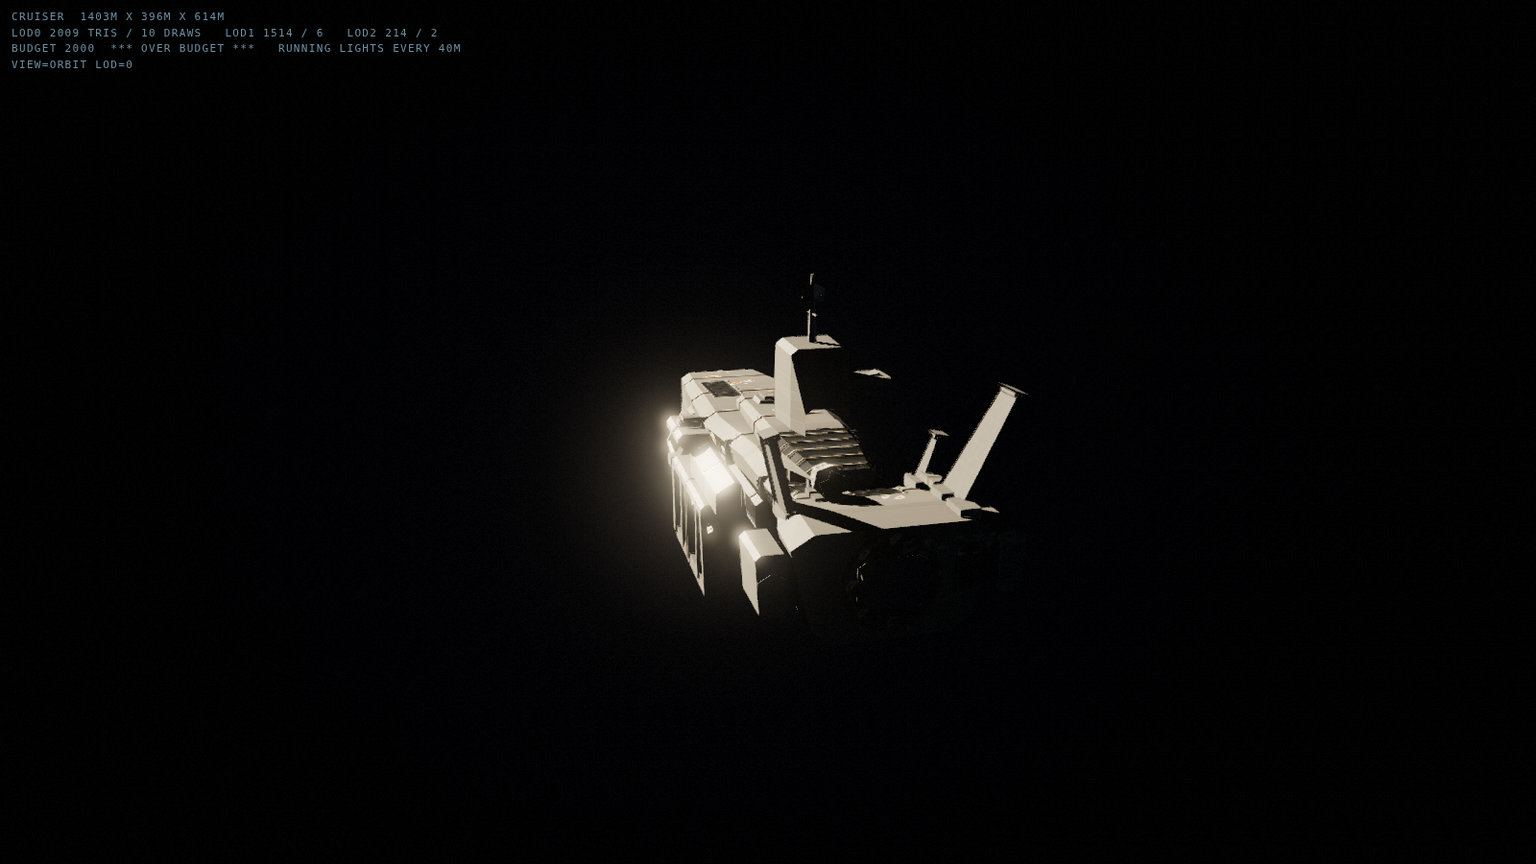
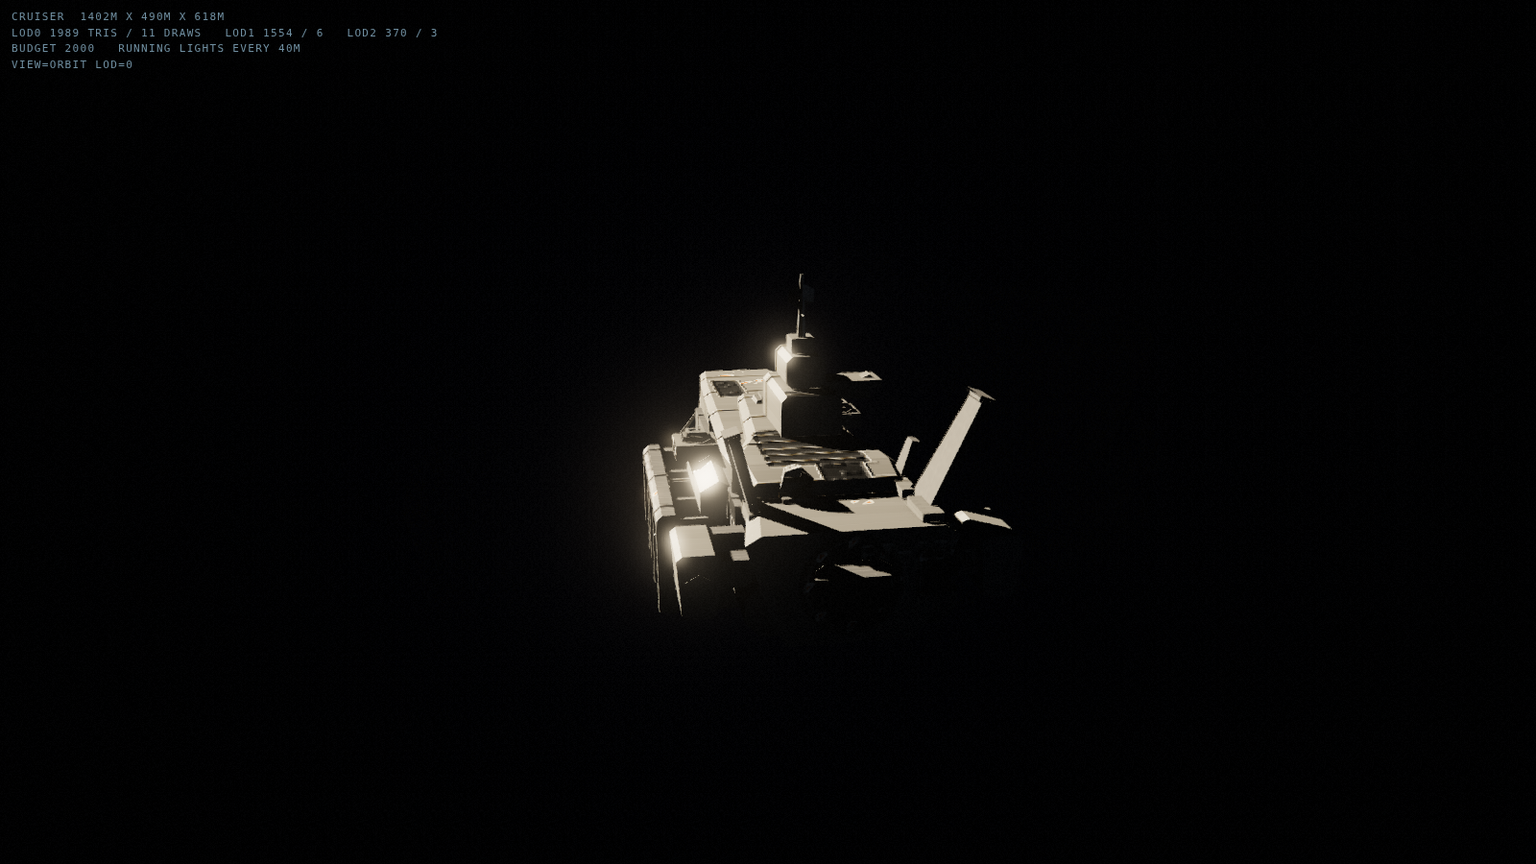
Fold the cohesion audit into the docs, and fix what was cheap to fix
An audit over the whole tree after the restart found real drift, including four
claims in HANDOFF.md — the document that says 'read me first' — that the tree
contradicts. Each is re-measured here rather than taken on either agent's word.

Fixed:
  - The progression layer's game.js seam was dead: STREAM_MODULES had no glob
    matching ./sim/meta/, so the boot report announced 'missing: progression'
    for a layer that was installed and running via a backstop in SalvageSystem.
  - uicheck.mjs guessed a random port and handed it to startServer, which is
    the exact guessing harness.mjs exists to prevent, and was also the only
    Math.random left in the repo.
  - The determinism scanner tested for a bare string and then stripped two
    hard-coded strings to get a pass, one of them cut to fit a single no-op
    line in strikecraft.js. It now scans for calls and aliases.
  - The reserve-clamp self-test never established its precondition: the ship
    was coasting, so nothing demanded delta-v and the clamp could not engage.
    Selftest goes 50 PASS / 1 FAIL exit 1 -> 50 PASS / 0 FAIL exit 0.

Corrected in the docs, all re-measured:
  - Three of the art critic's four blockers were closed by the in-flight work
    before the restart: plan view 0.65% -> 6.30%, LOD2 identity gate passes,
    hull surface is 99 assignments across four materials not 130 of 136.
    Surface character remains genuinely open, and D-INT1 now has a number.
[…]

Changed region(s): [[0.4062, 0.3733, 0.6875, 0.7156], [0.0938, 0.0311, 0.2188, 0.0622], [0.25, 0.0311, 0.2812, 0.0622]]

diff --git a/src/game.js b/src/game.js
@@ -36,6 +36,14 @@ const STREAM_MODULES = {
   ...import.meta.glob('./world/*/index.js'),
   ...import.meta.glob('./world/index.js'),
   ...import.meta.glob('./sim/ai/index.js'),
+  // The progression layer. Without this entry `optional('./sim/meta/index.js')` can
+  // never resolve, so the seam below it was dead and the boot report announced
+  // `missing: progression` for a layer that was in fact installed — by a backstop in
+  // SalvageSystem's constructor, which exists only because this line was absent
+  // (see the WIRING NOTE in sim/meta/index.js). A status line that reports a live
+  // system as missing is worse than no status line. The installer is idempotent, so
+  // whichever seam runs first wins and the other is a no-op.
+  ...import.meta.glob('./sim/meta/index.js'),
   ...import.meta.glob('./vfx/index.js'),
   ...import.meta.glob('./ui/index.js'),
   ...import.meta.glob('./audio/index.js'),

diff --git a/src/sim/strikecraft.js b/src/sim/strikecraft.js
@@ -28,7 +28,7 @@ export class StrikeCraft extends Ship {
     this.state = 'launching';   // launching | forming | engaging | returning | docked
     this.stateTimer = 0;
     this.fuel = 1;
-    this.orbitPhase = Math.random === undefined ? 0 : 0; // set by the squad, never Math.random
+    this.orbitPhase = 0;   // the squad assigns this from its own seeded fork on launch
   }
 }
 

diff --git a/HANDOFF.md b/HANDOFF.md
@@ -48,8 +48,15 @@ wrote this and it is what kept them compatible.
 
 ### 1. Draw calls — the one outright FAIL
 
-Committed ceiling 320, benchmark scene measured 650. The assembled game at normal play
-framing measures 143, so this is a benchmark-scene failure, not a game-wide one.
+Committed ceiling 320, benchmark scene measured **499** (`docs/review/benchmark.json`).
+The assembled game at boot framing measures **119** (`npm run smoke`, re-run on this
+commit), so this is a benchmark-scene failure, not a game-wide one.
+
+Three stale figures circulate for these two numbers — 650 for the benchmark and 143 for
+the game. Both came from earlier runs and were copied forward. 499 and 119 are the ones
+that reproduce today; `docs/review/benchmark.md` still carries 650 and disagrees with
+`benchmark.json` on resolution, frame count and mesh count as well, because the `.md`
+was written from a different run than the `.json` beside it.
 
 `docs/review/benchmark.md` ranks three geometry-side merges. **Take the measurement
 below before doing any of that work**: the count includes GTAO's depth-normal prepass,
@@ -68,24 +75,41 @@ target is unverified for that reason and is recorded as such, not quietly claime
 ### 2. Art direction — the thing that keeps not passing
 
 The blind critic has scored the hull 3–4/10 across several rounds and has picked the
-real Homeworld and Star Citizen references every time. Its most recent blockers, which
-I consider accurate:
+real Homeworld and Star Citizen references every time. **Its verdict still stands — but
+three of its four specific blockers were measured closed after it wrote them**, by the
+art commits that were in flight when the container died. I originally copied all four
+into this document as live. They are not, and I checked each rather than trusting either
+the critic or the agent that contradicted it:
 
-- **The hull is one material.** 130 of 136 surface assignments go to hull/plating.
-- **The plan view is a slug** — 0.65% enclosed background.
-- **Plate language is pillowy, not industrial.**
-- **LOD2 does not read as the same ship** (a regression; `D51` had this passing once).
+| critic's blocker | measured today | tool |
+|---|---|---|
+| plan view is a slug, 0.65% enclosed | **6.30%**, inside R2.6's 6–12% band | `node tools/silhouette.mjs` |
+| LOD2 does not read as the same ship | LOD2 IDENTITY passes, all four features present, exit 0 | `node tools/silhouette.mjs` |
+| hull is one material, 130 of 136 assignments | 99 assignments at LOD0: 38 hull+plating, 67 +greeble, 13 `dark`, 3 `radiator` | instrumented `hullParts()` |
+| plate language is pillowy, not industrial | not measurable; **still open** | — |
 
-The last one is a regression and is the cheapest to fix. The first is the deepest and
-is the one I would put a dedicated pass on.
+So the honest statement is narrower and more useful than the one I first wrote: the
+remaining art gap is **surface character**, not silhouette. The one number that supports
+the critic rather than contradicting it is the frequency split — `node tools/surface.mjs
+docs/review/look-surface/close.png` gives **78.1 / 20.3 / 1.6** calm/medium/dense against
+the brief's 60/30/10 target. That is `D-INT1`, it is real, and it now has a number
+instead of a screenshot argument.
+
+Do not re-open the closed three on the strength of an older critic report. Re-run the
+tools first — every one of them exits non-zero on a real regression.
 
 Context that matters and cost a round to establish: the look target is **art style, not
 lighting**. Bloom, exposure and shadow work are explicitly deferred to a later polish
 pass — `docs/design/look-target.md` is authoritative and critics are barred from scoring
 those. An earlier pass wasted effort on a zoom-driven grade before this was clear.
 
-`D-INT1` in `docs/review/defects.md` is open and related: the surface pass may have
-overcorrected from "everything medium frequency" to "everything calm".
+**Also open, and it is not cosmetic:** `node tools/probe.mjs cruiser` logs
+`DETACHED GEOMETRY` — four pieces of the core hull float unattached in the bridge and
+sensor-mast region (roughly x −51..16, y 177..366, z −281..−170), at all three LODs.
+This is **not** a regression from the interrupted work: the identical bounding boxes
+appear at commit `5ea20d8`, before those art commits, with only the part index shifted.
+So it cannot be reverted away. It is the same class as `D49`, which was closed for
+modules and never checked for the core hull.
 
 ### 3. Ripple broadside, weapon archetypes, hull adaptation
 
@@ -95,8 +119,12 @@ batteries, a broadside that ripples down the side on a cooldown, and a hull that
 its own plating to whatever is fitted so a heavily modified ship still reads as one
 coherent object.
 
-**Blocking pre-work:** cruiser.js is at 2009 triangles against a stated 2000 budget.
-Resolve that breach before adaptation lands, or adaptation will inherit it.
+**There is no blocking triangle breach.** I previously recorded one here — 2009 against
+a 2000 budget — carried forward from `docs/design/hull-adaptation.md:1047`, which
+measured it before the last art commits. Re-measured from `hull.stats`: LOD0/1/2 are
+**1989 / 1554 / 370** triangles and **11 / 6 / 3** draw calls, so the tree is inside
+`BUDGET.cruiserCoreTris`. §5.3 of `hull-adaptation.md` budgets its adaptation work off
+the stale 2009, and that arithmetic should be redone before it is trusted.
 
 ### 4. Visible damage
 
@@ -108,9 +136,35 @@ not make item 1 worse. Not implemented.
 ## Two workflows were killed mid-flight
 
 A container restart ended both. Their finished agents' edits are on disk and committed;
-their unfinished agents produced nothing. Nothing is half-applied — the tree builds,
-boots and passes both checks — but a cohesion audit was in progress when I stopped and
-its findings are not yet folded in.
+their unfinished agents produced nothing.
+
+The tree builds, boots and passes its checks. But a cohesion audit run afterwards found
+real drift, so the "nothing is half-applied" line I first wrote here was too confident.
+What it actually found, beyond the items already folded in above:
+
+- **The progression layer's `game.js` seam was dead** — `STREAM_MODULES` had no glob
+  matching `./sim/meta/`, so `optional()` returned null every boot and the boot report
+  announced `missing: progression` for a layer that *was* installed, via a documented
+  backstop in `SalvageSystem`'s constructor. Fixed on this commit; both seams are
+  idempotent, so whichever runs first wins.
+- **`src/world/lighting/pois.js` is never imported on the game path.** It authors
+  art-directed versions of `giant-orbit`, `graveyard` and `near-star`, and
+  `src/world/system.js:521` claims to defer to them — but only the probe tree imports
+  it, so `system.js` registers its own generic versions and the authored POIs have no
+  effect in the assembled game. **Not fixed:** wiring it changes what three POIs look
+  like, which is a visual change that wants a capture pass behind it, not a stopping point.
+- **`docs/design/controls.md` §6.1 specifies a handling model the code does not
+  implement.** No `player_cruiser` class is registered, so `game.js:128` always takes
+  the `synthesisePlayerClass` fallback: mass 62000 vs a specified 620000, accel 14 vs
+  6.0, turnRate 0.22 vs 0.085. `turnFalloff`, `turnExp` and `turnRateFloorK` appear
+  nowhere in `src/`. The ship flies well; it does not fly the documented curve.
+  Relatedly `world/travel.js:51` hands the cruiser over at 180 m/s, 28% above the live
+  hull's own 140 m/s ceiling.
+- **`docs/review/defects.md` has duplicate IDs** — D49, D50 and D51 each appear twice
+  under two sections both headed "Pass 10", so a reference to "D51" is ambiguous.
+- `ARCHITECTURE.md`'s ownership table names five paths that do not exist and assigns no
+  owner to `src/sim/meta/**` at all — the structural reason the progression layer had
+  nowhere legitimate to wire itself.
 
 What was outstanding: a full-game critique (wave 4) and the last two agents of the
 art-direction pass. Neither returned. Their inputs are the briefs in `docs/design/`,
@@ -136,20 +190,49 @@ Each of these cost real time. They are fixed; this is so they are not re-introdu
   its four channels to this and had never worked (`D35`).
 - **Don't iterate `panels.panels` while toggling** — `toggle` calls `raise`, which
   splices into that same array. Iterate a copy.
-- **No `Math.random` anywhere in `src/`.** Everything seeds off the deterministic
-  `mulberry32` forks; a stray random breaks reproducibility of an entire run.
+- **No `Math.random` anywhere.** Everything seeds off the deterministic `mulberry32`
+  forks; a stray random breaks reproducibility of an entire run. This applies to
+  `tools/` too — `uicheck.mjs` was picking a random port and handing it to
+  `startServer`, which is the exact guessing the first trap above exists to prevent.
+  Use `findFreePort`, never a guess.
+- **A rule enforced by an allowlist is not enforced.** The determinism scanner in
+  `src/sim/selftest.mjs` tested for the bare string `Math.random`, then stripped two
+  hard-coded strings before testing — one of them cut to fit a single no-op line in
+  `strikecraft.js`. It now scans for calls and aliases, which is what actually breaks
+  determinism, and prose about the rule no longer has to be smuggled past it.
 
 ---
 
 ## Honest status
 
-`docs/review/acceptance.md` is the scorecard: **9 PASS, 5 PARTIAL, 1 FAIL, 4 UNVERIFIED**,
-with the evidence for each. It is written so that PARTIAL means measured-and-short, not
-not-yet-looked-at, and nothing is marked PASS on the strength of intent.
+`docs/review/acceptance.md` is the scorecard, with the evidence for each row. It is
+written so that PARTIAL means measured-and-short, not not-yet-looked-at, and nothing is
+marked PASS on the strength of intent.
 
-One correction is recorded there rather than buried: I previously reported the
+Counting its 19 rows: **9 PASS, 3 PARTIAL, 1 FAIL, 6 UNVERIFIED**. Its own summary table
+says 5 PARTIAL and 4 UNVERIFIED, and I repeated that wrong split here in the first draft
+of this document. The table is corrected on this commit; the body was always right.
+
+Two PASS rows do not reproduce as written and should be treated as unverified until
+someone re-runs them:
+
+- **Lighting / single consistent key direction.** The row claims `giant-orbit` key was
+  raised to 14.0 for a 35:1 key-to-fill. The code says `key.intensity 11.5` against
+  `fill 0.16` — 72:1 — and `palette.js:817` explains why (a later global "keys ×0.82"
+  re-solve; 14.0 × 0.82 = 11.48). The row was never updated. Its hull-mask figure
+  (p05 0.168) does not reproduce from the committed tool on the committed frame either,
+  which gives 0.097, and the crop coordinates its bridge-tower reading depends on are
+  not written down anywhere, so that number cannot be re-run at all.
+- **Three loadouts distinguishable.** The verdict holds — the sheet still prints PASS —
+  but every number in the row is stale (worst pair is mean 82.1 / max 382, not
+  78.5 / 313), and the row conflates the sheet's two different measures. Note the
+  structural weakness: this evidence is a rendered PNG and `src/probes/loadouts.js:365`
+  prints PASS/FAIL into the image with **no process exit code**, so nothing gates it.
+  That is the same setup as the false PASS below.
+
+One correction is recorded rather than buried: I previously reported the
 loadout-silhouette criterion as PASS while its own probe printed FAIL. That row now
-carries real numbers and passes honestly. The general lesson held three times since —
+carries real numbers and passes honestly. The general lesson held several times since —
 every criterion that moved off PARTIAL moved because someone wrote a measurement tool
 instead of another paragraph, and in every case the tool disagreed with the prose on its
 first run.

diff --git a/docs/review/defects.md b/docs/review/defects.md
@@ -1198,3 +1198,125 @@ split is actually near 60/30/10 on the hull mask. If it is, this is an exposure 
 and belongs to the deferred lighting work. If it is not, the dense and medium tiers need
 restoring around machinery, joints between masses, and recesses — the places §3 of the
 ship-language spec says they belong.
+
+---
+
+## Cohesion audit — after the container restart
+
+An independent audit was run over the whole tree at the stopping point, specifically to
+find what two killed workflows had left inconsistent. It also re-ran the evidence behind
+every PASS in `acceptance.md`. Findings that are not already recorded above:
+
+### D-INT1 now has a number · STILL OPEN
+`node tools/surface.mjs docs/review/look-surface/close.png` gives a calm/medium/dense
+split of **78.1 / 20.3 / 1.6** against the brief's 60/30/10.
+
+That settles the caveat the entry above left open, and it settles it against the
+exposure theory: the hull genuinely is too calm, this is not lighting washing plating
+out, and it belongs to the art pass rather than to the deferred lighting work. It clears
+the tool's own printed thresholds (calm ≥ 60, medium ≤ 28, dense ≤ 12), which is worth
+noting because it means **the tool would not have caught this** — its thresholds are
+looser than the brief it is checking. The dense and medium tiers need restoring around
+machinery, joints between masses, and recesses.
+
+### D57 · Four pieces of the core hull float unattached · OPEN
+`node tools/probe.mjs cruiser` logs `DETACHED GEOMETRY` at **all three LODs**, in the
+bridge and sensor-mast region — roughly x −51..16, y 177..366, z −281..−170. At LOD0 the
+offenders are `core/hull#3`, `core/hull#4`, `core/greeble#0` and `core/greeble#1`.
+
+**Not a regression from the interrupted art work.** The identical bounding boxes appear
+at commit `5ea20d8`, before those commits, with only the part index shifted by one as a
+part was inserted ahead of them. So it cannot be reverted away and predates the restart.
+
+This is the same class as D49, which was found and closed for *modules* by
+`tools/silhouette.mjs` — and never checked for the core hull. The check exists; it was
+pointed at one half of the problem. That is the finding, more than the four pieces.
+
+### D58 · The progression layer's `game.js` seam was dead, and the boot report said so backwards · FIXED
+`STREAM_MODULES` in `src/game.js` had no glob matching `./sim/meta/`, so
+`optional('./sim/meta/index.js', 'progression')` could never resolve and returned null
+every boot. The layer ran anyway, via a documented backstop in `SalvageSystem`'s
+constructor that exists *because* the glob entry was missing.
+
+The dead seam was harmless. The boot report was not: it announced
+`missing: progression` for a layer that was fully installed and running. A status line
+that reports a live system as missing is worse than no status line, and this project has
+already lost a wave to believing that the progression layer was not wired.
+
+Fixed by adding the glob. Both installers are idempotent (`installProgression` returns
+early if `world.systems.economy` exists), so whichever seam runs first wins.
+
+The structural cause is worth recording separately: `ARCHITECTURE.md`'s ownership table
+assigns **no owner to `src/sim/meta/**`**, so the stream that wrote it had no legitimate
+place to wire itself and documented a workaround instead.
+
+### D59 · `src/world/lighting/pois.js` never runs in the assembled game · OPEN
+227 lines that author art-directed versions of `giant-orbit`, `graveyard` and
+`near-star`. The only importer in the tree is `src/probes/poi_common.js`, so
+`world.systems.pois` is absent at runtime and `src/world/system.js` registers its own
+generic versions of all three instead.
+
+`src/world/system.js:521-527` states that those three POIs "are owned by
+`world/lighting/pois.js` and are left exactly as that stream authored them. We only fill
+the gaps." That is false at runtime — `system.js` fills all of it.
+
+**Deliberately not fixed at the stopping point:** wiring it changes what three POIs look
+like, which is a visual change that wants a capture pass behind it.
+
+### D60 · `docs/design/controls.md` §6.1 specifies a handling model the code does not implement · OPEN
+No `player_cruiser` ship class is registered, so `src/game.js:128` always falls through
+to `synthesisePlayerClass`, whose numbers are not the spec's:
+
+| | live | `controls.md` §6.1 |
+|---|---|---|
+| mass | 62,000 | 620,000 |
+| maxSpeed | 140 | 180 |
+| accel | 14 | 6.0 |
+| turnRate | 0.22 | 0.085 |
+
+`turnFalloff`, `turnExp`, `turnRateFloorK`, `accelRetro`, `accelLateral` and
+`maxLateralSpeed` appear nowhere in `src/`; `physics.js:91` implements a plain
+`1 - 0.62·s²` with no floor clamp.
+
+The ship flies well and the measured 14.9 s / 9.9 s figures in `acceptance.md` are real.
+But they were measured on the fallback, not on the documented model, and `game.js:293`
+claims "Numbers match the feel tuning in `docs/design/controls.md`." Either the spec is
+the intent and the code should implement it, or the code is the intent and the spec is
+stale — but the comment asserting they agree should not survive either way.
+
+Related, and a genuine bug rather than drift: `src/world/travel.js:51` sets
+`combatArrivalSpeed: 180`, mirroring the spec's maxSpeed, and hands the cruiser over at
+that speed on the final leg — **28% above the live hull's own 140 m/s ceiling**.
+
+### D61 · Two PASS rows in `acceptance.md` do not reproduce · OPEN
+Both are recorded in full in `acceptance.md` itself and in `HANDOFF.md`: the lighting
+key-direction row cites a key intensity of 14.0 that the code contradicts (11.5, after a
+later global ×0.82 re-solve documented at `palette.js:817`) and a hull-mask p05 of 0.168
+that the committed tool gives as 0.097 on the committed frame; and the loadout row's
+verdict holds but every number in it is stale.
+
+The loadout row also shows a structural weakness worth fixing generally:
+`src/probes/loadouts.js:365` prints PASS/FAIL **into a PNG with no process exit code**,
+so nothing gates it. That is exactly the setup that produced this project's one
+acknowledged false PASS.
+
+### D62 · Duplicate defect IDs in this file · OPEN
+D49, D50 and D51 each appear **twice**, under two sections both headed "Pass 10" — at
+lines 793 / 832 / 845 and again at 886 / 910 / 927. Any cross-reference to "D51" is
+therefore ambiguous, and at least one document makes one. Renumber the second set.
+
+### D63 · The reserve-clamp self-test asserted against a precondition it never set · FIXED
+`src/sim/selftest.mjs` §6 drained the propellant tank to `reserve + 0.05` and then ran
+five seconds, expecting `stores.starved` and a clamped engine efficiency. It got
+`starved false, efficiency 0.802` and failed — but the sim was right and the test was
+wrong. The ship was still coasting toward the waypoint from the previous assertion, and
+coasting costs nothing: `stores.js#_spend` returns early below 1e-4 of delta-v, so no
+draw was ever refused and the clamp had nothing to engage on.
+
+Fixed by reversing the course before the run, which forces a real burn. The assertion
+now exercises what it claims to: propellant pinned at the 40.0 floor, `starved` true,
+engine efficiency 0.361 — clamped, and above zero, so you can still limp.
+
+`node src/sim/selftest.mjs` is 50 PASS / 0 FAIL, exit 0. It was exiting 1 before this,
+which is worth noting on its own: a self-test that has been red for a while stops being
+read, and this one is the only gate on the determinism rule.

diff --git a/docs/review/acceptance.md b/docs/review/acceptance.md
@@ -14,7 +14,7 @@ Last updated: after the fleet-and-modules measurement pass (pass 8).
 | 60 fps at 1440p on an Apple laptop | **UNVERIFIED** | No GPU in this environment. See below. |
 | 1% lows above 50 fps | **UNVERIFIED** | Same. |
 | Benchmark scene: 200+ debris, 12 combat ships, 1 capital, full post chain | **PASS** | `src/probes/benchmark.js`: 930 instanced objects, 12 combat ships actively engaging, 1 fully-fitted capital, full post chain. |
-| Draw calls under a committed ceiling, measured and reported | **FAIL** | Committed 320, measured **650** in the benchmark scene. Reported as a miss with diagnosis in `docs/review/benchmark.md`. The assembled game at normal play framing measures 143. |
+| Draw calls under a committed ceiling, measured and reported | **FAIL** | Committed 320, measured **499** in the benchmark scene (`docs/review/benchmark.json`, the machine-written record). Reported as a miss with diagnosis in `docs/review/benchmark.md`. The assembled game at boot framing measures **119** (`npm run smoke`). This row previously said 650 and 143; both were earlier runs copied forward, and 650 also disagreed with line 101 of this same file. `benchmark.md` still carries the stale figures and disagrees with `benchmark.json` beside it on resolution, frame count and mesh count too — the `.md` was written from a different run than the `.json`. Trust the `.json`. |
 
 ### Why frame rate is unverified, stated plainly
 
@@ -80,9 +80,16 @@ measurement now are, and the tools that settle them are committed
 | | count |
 |---|---|
 | PASS | 9 |
-| PARTIAL | 5 |
+| PARTIAL | 3 |
 | FAIL | 1 |
-| UNVERIFIED | 4 |
+| UNVERIFIED | 6 |
+
+Nineteen rows. This table previously read 5 PARTIAL and 4 UNVERIFIED, which counted to
+19 but matched no actual row set — the body has always had three PARTIALs (rows 46, 57,
+73) and six UNVERIFIEDs (14, 15, 56, 58, 72, 74). PASS counts the one split verdict,
+"PASS (design), UNVERIFIED (hands)" at row 66, as a pass. The wrong split had been
+copied outward into other documents, which is why it is worth stating how it is counted
+rather than just fixing the numbers.
 
 The two that moved this pass are both in Lighting, and they moved for the same reason
 the Silhouette pair did before them: they stopped being opinions. Both were sitting at
@@ -105,6 +112,14 @@ One outright failure remains:
    of the scene**, so a meaningful fraction of the 499 is one scene counted twice. That
    should be measured (`--quality medium` disables GTAO) before anyone re-merges a hull
    to chase it.
+
+   **Still unmeasured.** `npm run bench -- --quality medium` was attempted twice on this
+   commit and killed by its timeout both times — the review environment has no GPU and
+   the benchmark scene at 2560×1440 through SwiftShader takes longer than any budget
+   worth holding a session open for. It is a fast run on a machine with a GPU. Until
+   someone does it, nobody knows how much of the 499 is one scene counted twice, and the
+   three geometry merges are being ranked against a number that may be substantially
+   inflated.
 
 ### An honest overall statement
 
